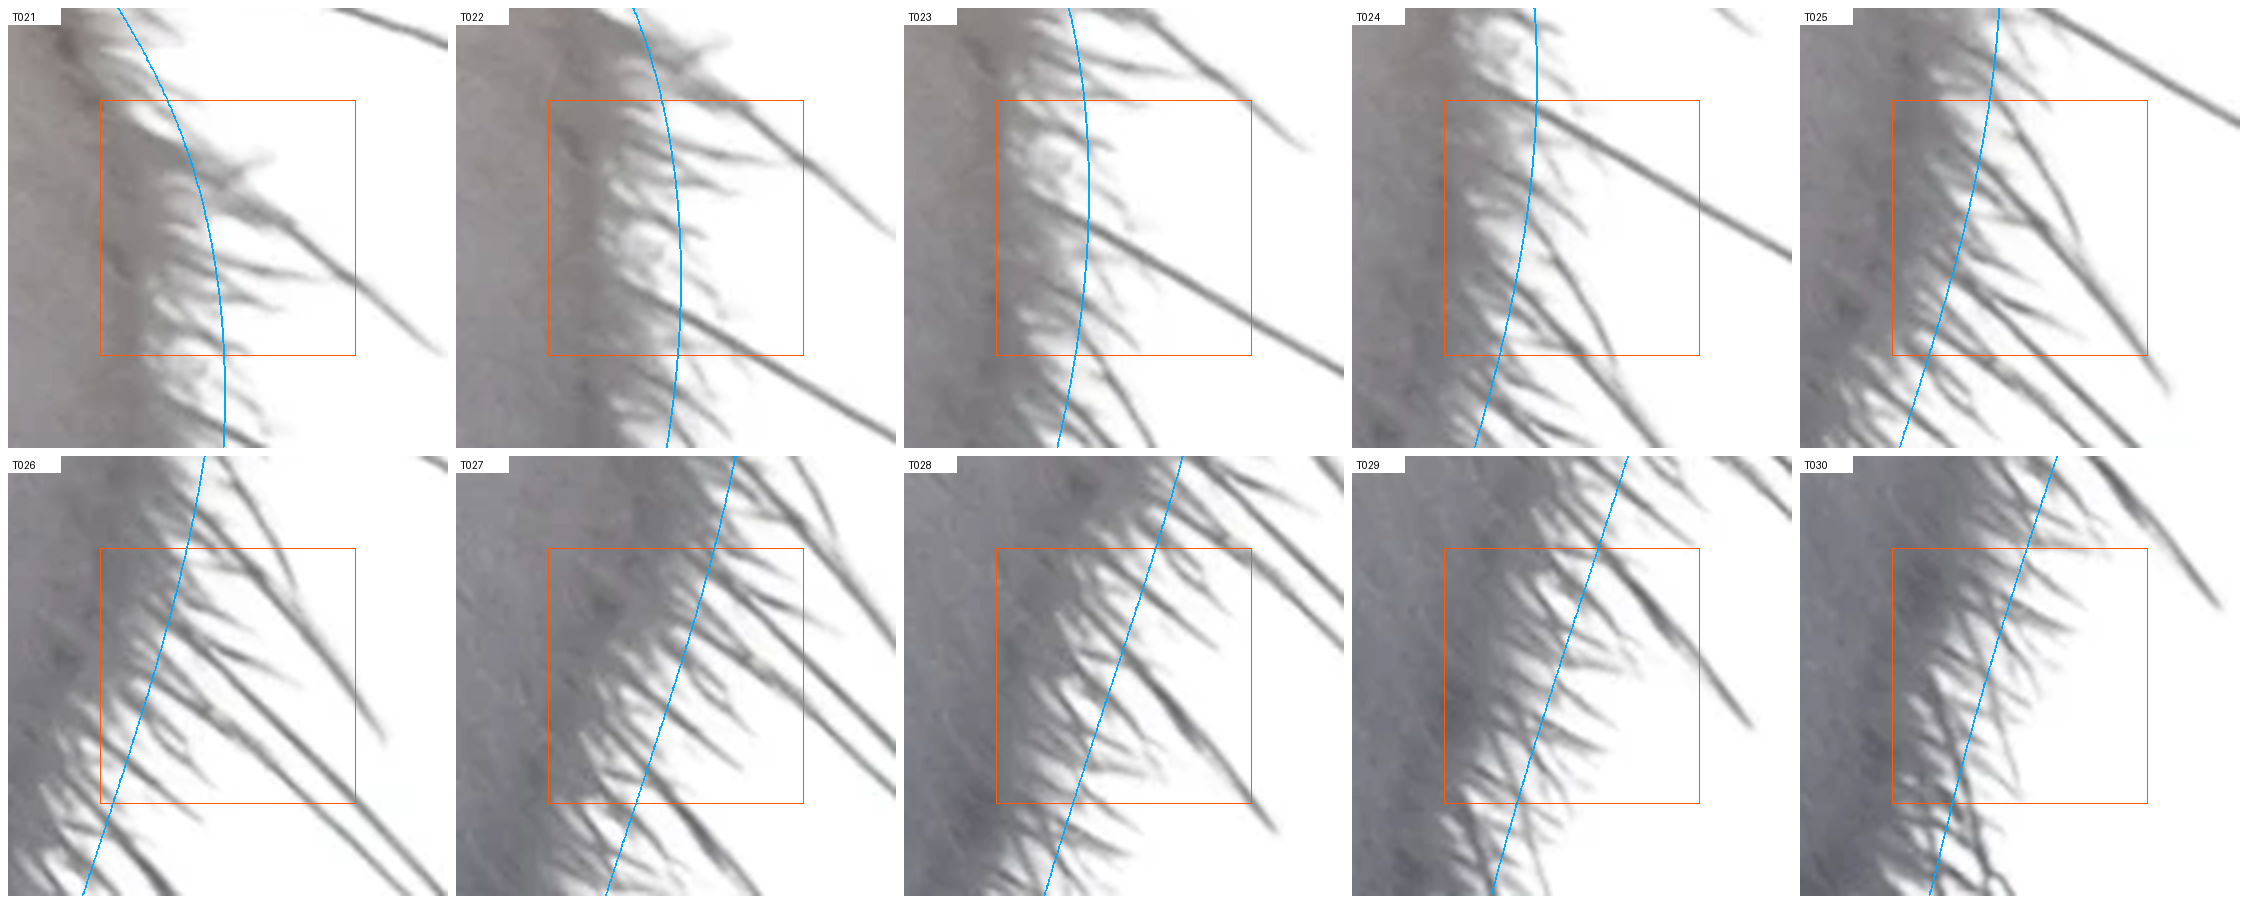
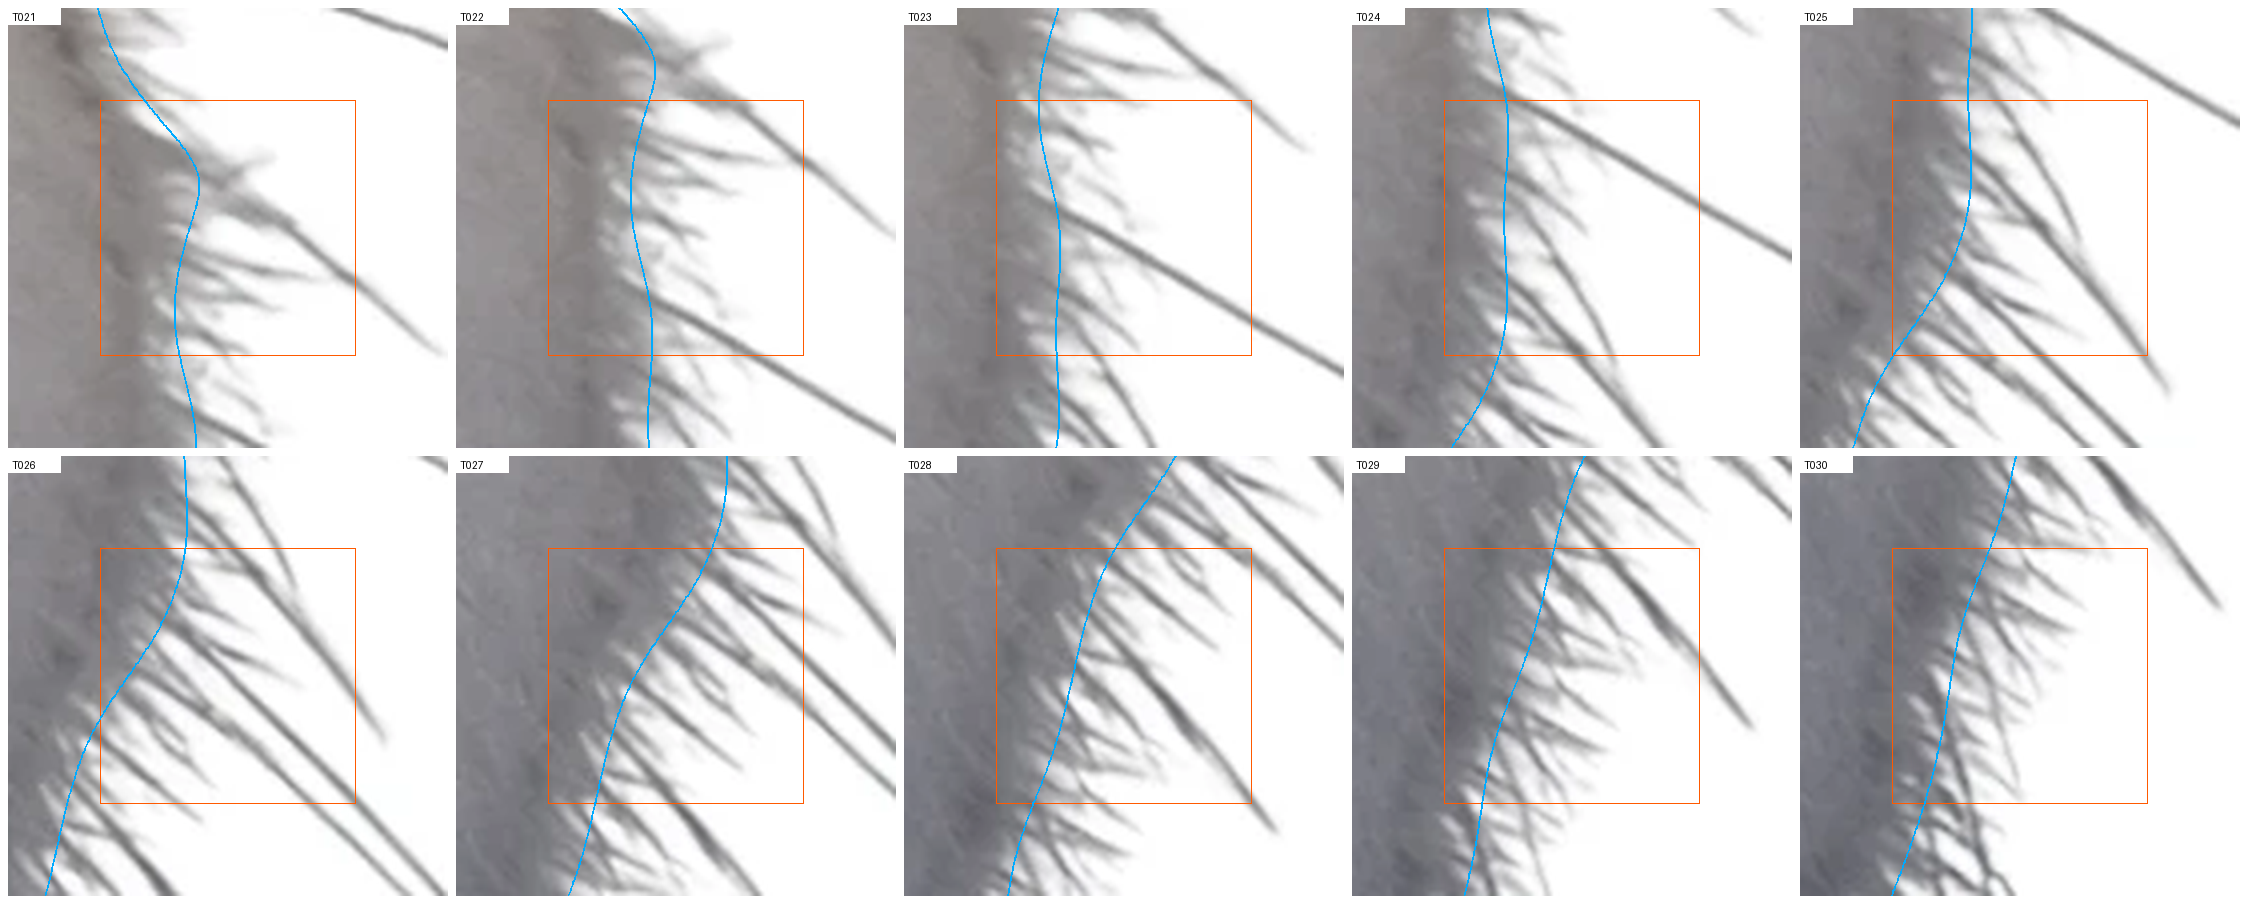
Outline batch2 (T021-T040) self-checked
Claude-Session: https://claude.ai/code/session_01GTfyFQVG4WXcpP4QQfGNqQ

diff --git a/docs/PROGRESS.md b/docs/PROGRESS.md
@@ -242,3 +242,4 @@ check.py output (if applicable), and the next step.
   (`docs/images/eyes_after_lock.png`); eye marks 0 px out; hand-off 6.2 deg/2 px
   (same as his sides). Test added (12 pass).
 - **batch1 (T013-T020) outline: self-checked** on the recalibrated line. Fidelity: no cuts, no bulges, no into-fringe > 6 px, smoother everywhere; eye marks 0 px out; peet line inside.
+- **batch2 (T021-T040) outline: self-checked** on the recalibrated line. Fidelity: flags: T030 into-fringe 7.0 px, T031 into-fringe 7.0 px; eye marks 0 px out; peet line inside.
